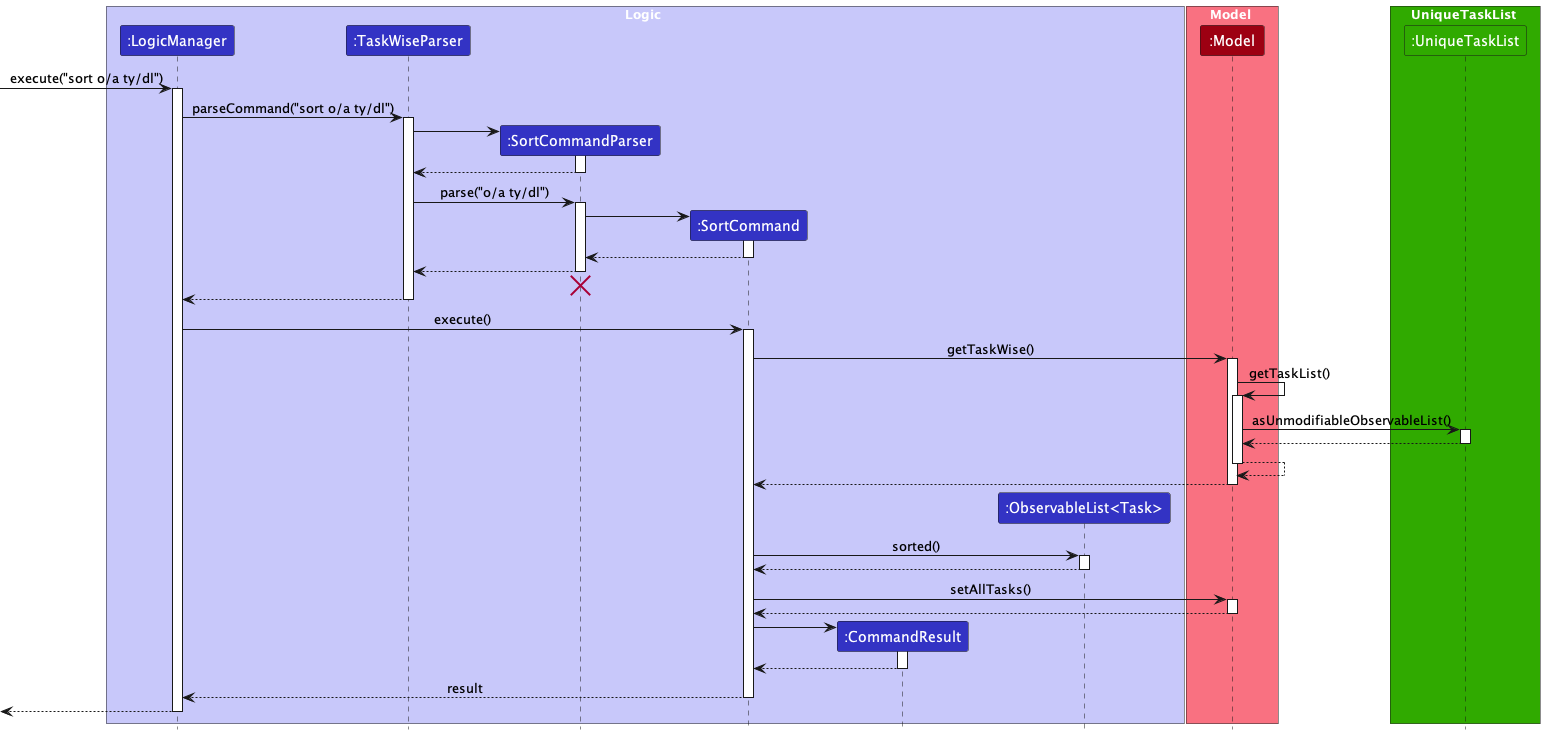
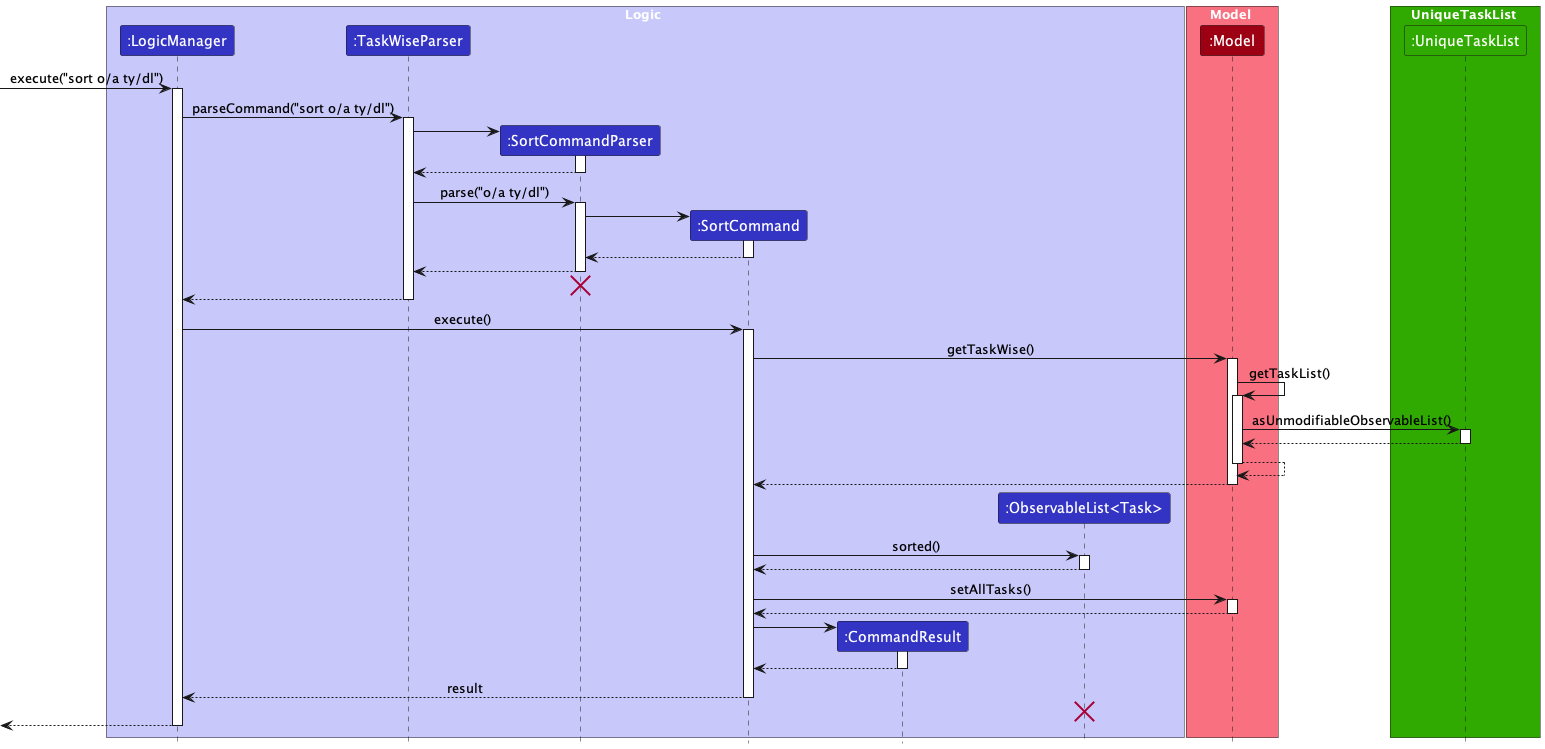
Update DG and Diagrams

diff --git a/docs/DeveloperGuide.md b/docs/DeveloperGuide.md
@@ -203,7 +203,7 @@ We shall now go through the 3 different classes of recognised Exceptions and Err
 
 You are strongly discouraged from throwing this Exception class as a general catch-all exception when something went wrong when the user tries to execute a `Command`, as it may lack the necessary information which you need to find out what is wrong with the code and prevent you from debugging later on!
 
-Should you find yourself requiring more Exception classes to handle any new errors that arises when you extend the app,create new Exception classes, extend from `CommandException`, and throw the new class instead!
+Should you find yourself requiring more Exception classes to handle any new errors that arises when you extend the app, create new Exception classes, extend from `CommandException`, and throw the new class instead!
 
 There are *3* other derived classes of `CommandException`, which are the `DuplicatedTaskException`, `IllegalCommandException` and `IllegalTaskIndexException` classes. We shall explore the classes in detail in the next few sections.
 
@@ -227,6 +227,12 @@ This Exception is thrown when the user attempts to input a Task index that is no
 
 Some examples of task indices that are not permitted include: `-1` (negative indices), `10.0` (floating points) and `10` (when there is only `9` tasks in the task list).
 
+#### `IllegalTaskStatusModificationException`
+
+This Exception is thrown when the user attempts to mark a Task that is already completed, or unmark a task that is not completed.
+
+For example, if a given Task is already marked as completed, when the user attempts to mark the Task again, this Exception will be thrown.
+
 ### `ParseException`
 
 `ParseException` is another generic error which occurs when there was an issue encountered when a `Parser` tries to parse an input from the user. Usually, this error arises due to user error (e.g. wrong commands, invalid or illegal inputs), and should **not** be the result of developer error.
@@ -235,7 +241,7 @@ Some examples of task indices that are not permitted include: `-1` (negative ind
 
 #### `DuplicatedPrefixException`
 
-This Exception is thrown when the same `Prefix` is detected in the same command.
+This Exception is thrown when the same `Prefix` is detected more than once in the same command.
 
 For example, if the command `add t/task t/another task` is entered, the duplicated `t/` `Prefix` will be detected, and this Exception will be thrown.
 
@@ -261,23 +267,17 @@ This Exception is thrown when the user indicates that they would like to edit a 
 
 ### `StorageException`
 
-`StorageException` is the final class of generic error which occurs when there is an issue loading data from the
-save files of TaskWise.
+`StorageException` is the final class of generic error which occurs when there is an issue loading data from the save files of TaskWise.
 
 ![overview](images/exceptions/StorageExceptionDiagram.png)
 
 #### `IllegalJsonValueException`
 
-This Exception is thrown when the data stored in TaskWise's JSON data files do not meet some constraints imposed by the
-Task model.
+This Exception is thrown when the data stored in TaskWise's JSON data files do not meet some constraints imposed by the Task model.
 
 #### `IllegalJsonDescriptionValueException`
 
 This Exception is thrown when the stored Task Description is corrupted and cannot be read from the JSON data file.
-
-#### `IllegalJsonNameValueException`
-
-This Exception is thrown when the stored Task Name is corrupted and cannot be read from the JSON data file.
 
 #### `IllegalJsonTagValueException`
 
@@ -299,13 +299,13 @@ This Exception is thrown when the user failed to grant TaskWise sufficient acces
 
 This Exception is thrown when there is an error encountered when TaskWise is trying to read or write from the data files.
 
-Note that this errors differs from [`InsufficientStoragePrivilegeException`](#insufficientstorageprivilegeexception) in that access is granted, but the data file could not be recognised and hence parsed within TaskWise, hence leading to an error being raised.
+Note that this error differs from [`InsufficientStoragePrivilegeException`](#insufficientstorageprivilegeexception) in that access is granted, but the data file could not be recognised and hence parsed within TaskWise, hence leading to an error being raised.
 
 ### Unrecognised Exceptions
 
-Any other Exceptions not mentioned above should not, under most circumstances, be thrown by any method within TaskWise, as they will not be caught by TaskWise's internal Exception handling system, leading to the user's application crashing catastrophically.
+Any other Exceptions not mentioned above should not, under most circumstances, be thrown and not be handled by any method within TaskWise, as they will not be caught by TaskWise's internal Exception handling system, leading to the user's application crashing catastrophically.
 
-Developers are recommended to extend on the current Exception classes already provided to specify new Exceptions that they would like to handle, rather than throwing any Exceptions that are not on the list of pre-approved Exceptions.
+Developers are recommended to extend the current Exception classes already provided to specify new Exceptions that they would like to handle, rather than throwing any Exceptions directly that are not on the list of pre-approved Exceptions, unless there is a legitimate reason to do so.
 
 # Implementation
 
@@ -420,8 +420,7 @@ Possible enhancement for `Priority` is to allow users to `add` a task to the lis
 
 Some attributes within the Tasks are comparable with each other as they implement the `java.lang.Comparable<T>` interface. These attributes are: `Description`, `Status`, `Deadline` and `Priority`.
 
-<div markdown="span" class="alert alert-info">:information_source: **Disclaimer:** Currently, only sorting by Task Description and Status is working, as the other attributes of Task is work-in-progress!
-</div>
+<div markdown="span" class="alert alert-info">:information_source: **Disclaimer:** Currently, only sorting by Task Description and Status is working, as the other attributes of Task are work-in-progress!</div>
 
 These comparable attributes form the basis on which this Sort Command is built upon. With these comparable attributes, we are able to sort the Task List using these attributes to obtain an ordered representation of the Task List.
 
@@ -479,7 +478,7 @@ The process is given as such:
 
 ### Alternatives Considered
 
-Initially, we were considering whether or not to make the requirement for `Note` as stringent as `Description`, where we strictly only accept alphanumeric characters. However we realized that there is a key different between `Note` and `Description` that makes `Note` less "strict" than `Description`, which is that a `Description` can never be empty while a `Note` can be empty. Thus we have decided to proceed with the less strict requirement for `Note`.
+Initially, we were considering whether to make the requirement for `Note` as stringent as `Description`, where we strictly only accept alphanumeric characters. However we realized that there is a key different between `Note` and `Description` that makes `Note` less "strict" than `Description`, which is that a `Description` can never be empty while a `Note` can be empty. Thus we have decided to proceed with the less strict requirement for `Note`.
 
 ### Proposed Enhancements
 
